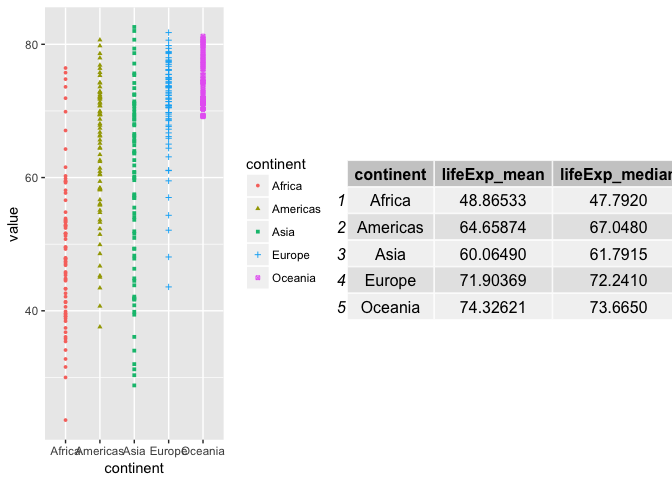
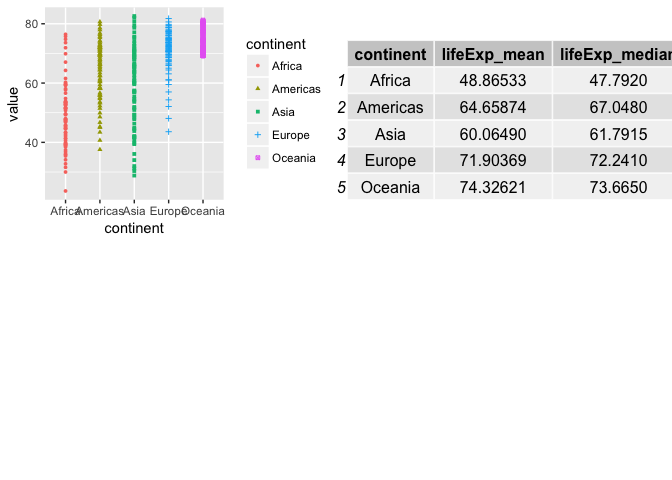
DOne

diff --git a/hw_03/hw03_dplyr.md b/hw_03/hw03_dplyr.md
@@ -226,8 +226,8 @@ ggplot(m_lifeExp, aes(x=year, y=value, color=continent))+
 
 ![](hw03_dplyr_files/figure-markdown_github-ascii_identifiers/unnamed-chunk-8-1.png)
 
-Task menu
----------
+BUT I WANT TO TRY MORE
+----------------------
 
 I'll give it a try...
 
@@ -246,7 +246,7 @@ exytatable1 <- gapminder %>%
 
 ``` r
 grid.arrange(extraplot ,tableGrob(exytatable1), 
-             ncol=2,widths=c(1, 1))
+             ncol=2,widths=c(1, 1), heights=c(1, 1))
 ```
 
 ![](hw03_dplyr_files/figure-markdown_github-ascii_identifiers/unnamed-chunk-9-1.png)
